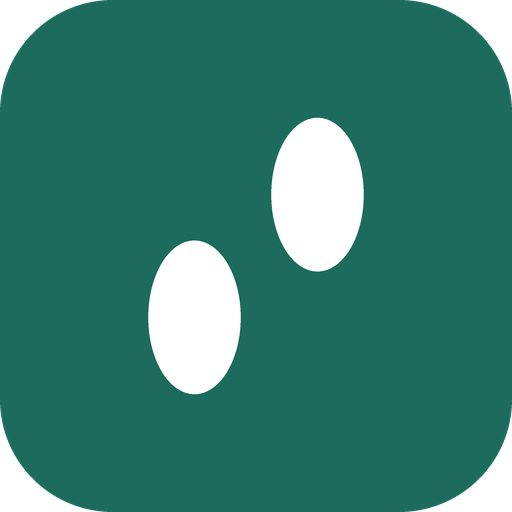
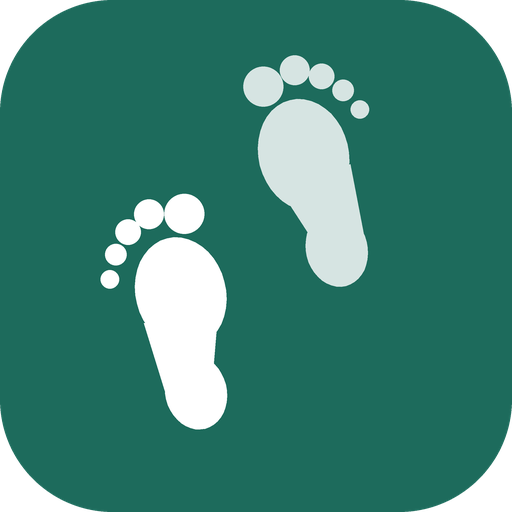
글씨 정리(굵기·크기·자간, 선 아이콘), 탭으로 상황 기록(컨디션·길·신발), 홈 주간 요약(점수 없이), 발자국 앱 아이콘(앱 0.6)

Changed region(s): [[0.4688, 0.0938, 0.7188, 0.5625], [0.1875, 0.375, 0.4688, 0.8438]]

diff --git a/app.js b/app.js
@@ -168,6 +168,7 @@ async function stopRec() {
 }
 
 function finish(data, demo = false, gps = []) {
+  shownDate = null;
   const position = $('pos').value;
   const act = $('act').value;
   if (act === 'slowrun') return finishSlow(data, demo);
@@ -199,6 +200,7 @@ function finish(data, demo = false, gps = []) {
   const rec = { date: new Date().toISOString(), activity: act, position, practice, ...res, distance: dist, ...d, distSource: d.speed ? mode : null, diag, diagHtml };
   if (!demo && consent?.share && ENDPOINT) rec.receipt = send(rec);
   hist.unshift(rec); store.set('history', hist.slice(0, 200));
+  shownDate = rec.date;
   const prev = hist.find(h => !h.practice && h !== rec && (h.activity ?? 'walk') === act);
   act === 'run' ? renderRun(rec, prev) : render(rec, prev);
   renderHistory();
@@ -206,6 +208,7 @@ function finish(data, demo = false, gps = []) {
 
 // ── 슬로우 러닝: 1분 단위로 잘라 조깅 구간은 러닝, 걷기 구간은 걷기로 분석 ──
 function finishSlow(data, demo) {
+  shownDate = null;
   const position = $('pos').value, t0s = data[0].t, segs = [];
   for (let k = 0; ; k++) {
     const a = t0s + k * INTERVAL_S * 1000, b = a + INTERVAL_S * 1000;
@@ -226,6 +229,7 @@ function finishSlow(data, demo) {
     diag: { src: Native ? 'app' : 'web', durS: (data[data.length - 1].t - t0s) / 1000, hz: data.length / Math.max(1, (data[data.length - 1].t - t0s) / 1000), gapS: 0, gpsGood: 0 } };
   if (!demo && consent?.share && ENDPOINT) rec.receipt = send(rec);
   hist.unshift(rec); store.set('history', hist.slice(0, 200));
+  shownDate = rec.date;
   renderSlow(rec, hist);
   renderHistory();
 }
@@ -253,7 +257,7 @@ function send(r) {
 }
 
 // ── 처음 시작할 때 동의 ──
-const APP_VERSION = 'v20';
+const APP_VERSION = 'v21';
 let consent = store.get('consent', null);
 function showConsent() {
   document.body.classList.add('needConsent');
@@ -362,13 +366,13 @@ function render(r, prev) {
 // ── 추천 카드: 효과를 뭉뚱그리지 않고 계산식 + 출처별 실제 결과 + 한계만 보여 줌 ──
 function recCard({ title, calc = [], facts = [], limit = '', grade = 'y', refs = [] }) {
   const [cls, label] = GRADE[grade];
-  return `<div class="rec"><div class="mhead"><b>💡 ${title}</b><span class="badge ${cls}">${label}</span></div>
+  return `<div class="rec"><div class="mhead"><b>${title}</b><span class="badge ${cls}">${label}</span></div>
     ${calc.length ? `<div class="calc">${calc.join('<br>')}</div>` : ''}
     <ul class="facts">${facts.map(f => `<li>${f}</li>`).join('')}</ul>
     ${limit ? `<div class="sub">한계: ${limit}</div>` : ''}
     <details><summary>출처 전체</summary><ul>${refs.map(r => `<li>${REF[r]}</li>`).join('')}</ul></details></div>`;
 }
-const recSection = (cards, title = '📚 근거로 본 추천') => cards.length ? `<details class="recs"><summary>${title} <span class="sub">(눌러서 보기)</span></summary><div class="sub" style="margin-top:8px">책·연구의 기준값과 이번 값, 계산식만 옮겼어요. 원인 판단과 내 몸에 맞는지는 전문가와 상의하세요.</div>${cards.join('')}</details>` : '';
+const recSection = (cards, title = '근거로 본 추천') => cards.length ? `<details class="recs"><summary>${title} <span class="sub">(눌러서 보기)</span></summary><div class="sub" style="margin-top:8px">책·연구의 기준값과 이번 값, 계산식만 옮겼어요. 원인 판단과 내 몸에 맞는지는 전문가와 상의하세요.</div>${cards.join('')}</details>` : '';
 
 function recsWalk(r, { sex, age }) {
   const c = Math.round(r.cadence), cards = [];
@@ -471,8 +475,38 @@ function renderSlow(r, hist) {
   showHtml(html);
 }
 
+
+// ── 그때 상황 남기기: 글자 입력 없이 탭으로 (기록에만 저장, 시트로 보내지 않음) ──
+const CTX = {
+  cond: ['컨디션', ['좋음', '보통', '피곤', '통증 있음']],
+  road: ['길', ['평지', '오르막', '내리막', '트레드밀']],
+  shoe: ['신발', ['운동화', '구두·샌들', '맨발·기타']],
+};
+let shownDate = null;   // 지금 결과 화면에 떠 있는 기록의 날짜 (이걸로 기록을 찾음)
+function ctxBox(date) {
+  const h = store.get('history', []).find(x => x.date === date);
+  if (!h) return '';
+  const c = h.ctx || {};
+  return `<div class="ctx" data-date="${date}"><div class="sub" style="margin-bottom:6px">그때 상황 남기기 <span style="opacity:.7">(선택 · 누르기만 하면 저장돼요)</span></div>
+    ${Object.entries(CTX).map(([k, [name, opts]]) => `<div class="ctxrow"><span class="ctxk">${name}</span>${opts.map(o => `<button class="chip" data-k="${k}" data-v="${o}" aria-pressed="${c[k] === o}">${o}</button>`).join('')}</div>`).join('')}
+    <div class="sub" style="margin-top:4px;font-size:.75rem">Neumann 16장: 오르막·내리막에 따라 착지 충격이 달라져서, 길 종류를 남겨 두면 기록을 비교할 때 도움이 돼요.</div></div>`;
+}
+document.addEventListener('click', e => {
+  const b = e.target.closest?.('.ctx .chip');
+  if (!b) return;
+  const box = b.closest('.ctx'), hist = store.get('history', []), h = hist.find(x => x.date === box.dataset.date);
+  if (!h) return;
+  h.ctx = h.ctx || {};
+  h.ctx[b.dataset.k] = h.ctx[b.dataset.k] === b.dataset.v ? undefined : b.dataset.v;   // 같은 걸 다시 누르면 지움
+  store.set('history', hist);
+  for (const x of box.querySelectorAll(`.chip[data-k="${b.dataset.k}"]`)) x.setAttribute('aria-pressed', h.ctx[b.dataset.k] === x.dataset.v);
+  renderHistory();
+});
+const ctxText = c => c ? Object.keys(CTX).map(k => c[k]).filter(Boolean).join(' · ') : '';
+
 function showHtml(html) {
   const el = $('result'); el.innerHTML = html;
+  if (shownDate) el.querySelector('h2')?.insertAdjacentHTML('afterend', ctxBox(shownDate));
   el.insertAdjacentHTML('beforeend', glossList(markTerms(el)));
   el.classList.remove('hidden'); el.scrollIntoView({ behavior: 'smooth' });
 }
@@ -555,7 +589,7 @@ function markTerms(root) {
 }
 function glossList(terms) {
   if (!terms.length) return '';
-  return `<details class="gloss"><summary>📖 용어 풀이 (${terms.length}개)</summary><dl>${terms.map(t => `<dt>${t}</dt><dd>${GLOSS[t]}</dd>`).join('')}</dl></details>`;
+  return `<details class="gloss"><summary>용어 풀이 (${terms.length}개)</summary><dl>${terms.map(t => `<dt>${t}</dt><dd>${GLOSS[t]}</dd>`).join('')}</dl></details>`;
 }
 document.addEventListener('click', e => {
   const t = e.target.closest?.('.term');
@@ -571,7 +605,7 @@ function renderHistory() {
   if (homeReady && document.body.dataset.tab === 'home') renderHome();   // 홈 코드가 다 읽힌 뒤에만
   if (!hist.length) return;
   $('histBody').innerHTML = `<div class="sub">줄을 누르면 그때 결과를 다시 볼 수 있어요.</div><table class="hist"><tr><td>날짜</td><td>활동</td><td>케이던스</td><td>걸음</td><td>속도</td></tr>` +
-    hist.slice(0, 20).map((h, i) => `<tr data-i="${i}" class="clickable"><td>${new Date(h.date).toLocaleString('ko-KR', { month: 'numeric', day: 'numeric', hour: '2-digit', minute: '2-digit' })}${h.practice ? ' (연습)' : ''}${h.receipt ? `<br><span class="sub">접수 ${h.receipt}</span>` : ''}</td>
+    hist.slice(0, 20).map((h, i) => `<tr data-i="${i}" class="clickable"><td>${new Date(h.date).toLocaleString('ko-KR', { month: 'numeric', day: 'numeric', hour: '2-digit', minute: '2-digit' })}${h.practice ? ' (연습)' : ''}${h.receipt ? `<br><span class="sub">접수 ${h.receipt}</span>` : ''}${h.ctx && ctxText(h.ctx) ? `<br><span class="sub">${ctxText(h.ctx)}</span>` : ''}</td>
       <td>${ACT[h.activity ?? 'walk']}${h.view ? `(${VIEW[h.view]})` : ''}</td><td>${(h.cadence ?? h.r?.cadence)?.toFixed(0) ?? '-'}</td><td>${h.steps ?? '-'}</td><td>${h.speed ? h.speed.toFixed(2) + ' m/s' : '-'}</td></tr>`).join('') + '</table>';
 }
 renderHistory();
@@ -590,6 +624,35 @@ const shortDate = d => new Date(d).toLocaleDateString('ko-KR', { month: 'numeric
 function tile(label, value, unit, sub, i) {
   if (value == null) return `<div class="tile empty"><div class="k">${label}</div><div class="v">기록 없음</div><div class="d">${sub}</div></div>`;
   return `<button class="tile" data-i="${i}"><div class="k">${label}</div><div class="v">${value}<small> ${unit}</small></div><div class="d">${sub}</div></button>`;
+}
+
+// 주간 요약: 이번 주(월요일부터) vs 지난주, 점수 없이 숫자와 차이만
+function weekSummary(hist) {
+  const mon = new Date(); mon.setHours(0, 0, 0, 0); mon.setDate(mon.getDate() - ((mon.getDay() + 6) % 7));
+  const prevMon = new Date(mon); prevMon.setDate(mon.getDate() - 7);
+  const inW = (h, a, b) => { const t = new Date(h.date); return t >= a && t < b; };
+  const far = new Date(8.64e15);
+  const pick = (a, b) => hist.filter(h => !h.practice && inW(h, a, b));
+  const stat = list => {
+    const avg = xs => xs.length ? xs.reduce((s, x) => s + x, 0) / xs.length : null;
+    const walk = list.filter(h => (h.activity ?? 'walk') === 'walk');
+    return { n: list.length, walkCad: avg(walk.map(h => h.cadence)), speed: avg(walk.filter(h => h.speed).map(h => h.speed)),
+      runCad: avg(list.filter(h => h.activity === 'run').map(h => h.cadence)),
+      jog: list.filter(h => h.activity === 'slowrun').reduce((s, h) => s + h.activeS / 60, 0), video: list.filter(h => h.activity === 'video').length };
+  };
+  return { cur: stat(pick(mon, far)), prev: stat(pick(prevMon, mon)) };
+}
+function renderWeek() {
+  const { cur, prev } = weekSummary(store.get('history', []));
+  const row = (label, a, b, unit, dec = 0) => {
+    const v = a == null ? '-' : `${a.toFixed(dec)}<small> ${unit}</small>`;
+    const d = a != null && b != null ? `${a - b >= 0 ? '+' : ''}${(a - b).toFixed(dec)}` : '-';
+    return `<tr><td>${label}</td><td class="num">${v}</td><td class="num sub">${d}</td></tr>`;
+  };
+  $('week').innerHTML = `<table class="wk"><tr class="sub"><td></td><td class="num">이번 주</td><td class="num">지난주 대비</td></tr>
+    ${row('측정 횟수', cur.n, prev.n, '회')}${row('걷기 케이던스 평균', cur.walkCad, prev.walkCad, '걸음/분')}${row('걷는 속도 평균', cur.speed, prev.speed, 'm/s', 2)}
+    ${row('러닝 케이던스 평균', cur.runCad, prev.runCad, '걸음/분')}${row('슬로우 조깅', cur.jog, prev.jog, '분')}${row('영상 분석', cur.video, prev.video, '회')}</table>
+    <div class="sub" style="margin-top:6px">월요일부터 지금까지의 기록이에요(연습 측정 제외). 점수로 바꾸지 않고 잰 숫자만 모았어요.</div>`;
 }
 function renderHome() {
   const hist = store.get('history', []);
@@ -616,6 +679,7 @@ function renderHome() {
       <text x="54" y="70" text-anchor="middle" font-size="11" fill="var(--sub)">/ 90분</text></svg>
     <div><div style="font-weight:700">${Math.round(frac * 100)}%</div>
       <div class="sub">월요일부터 이번 주에 슬로우 러닝으로 조깅한 시간이에요. 90분은 Ikenaga 2017 무작위 연구의 주간 조깅량이에요(목표 처방이 아니에요).</div></div>`;
+  renderWeek();
   renderTrend();
   markTerms($('home'));
 }
@@ -669,8 +733,9 @@ function showRecord(i) {
   const hist = store.get('history', []), h = hist[i];
   if (!h) return;
   const when = new Date(h.date).toLocaleString('ko-KR', { month: 'numeric', day: 'numeric', hour: '2-digit', minute: '2-digit' });
-  const banner = `<div class="sub" style="margin-bottom:6px">📅 지난 기록 다시 보기 · ${when}</div>`;
+  const banner = `<div class="sub" style="margin-bottom:6px">지난 기록 다시 보기 · ${when}</div>`;
   const act = h.activity ?? 'walk';
+  shownDate = h.date;
   if (act === 'video') { setTab('video'); renderVideo(h.r); $('vresult').insertAdjacentHTML('afterbegin', banner); return; }
   setTab('measure');
   const prev = hist.slice(i + 1).find(x => !x.practice && (x.activity ?? 'walk') === act);
@@ -694,6 +759,7 @@ for (const id of ['vcam', 'vfile']) $(id).addEventListener('change', e => { cons
 
 async function runVideo(file) {
   const view = $('vview').value;
+  shownDate = null;
   $('vresult').classList.add('hidden'); $('vcanvas').classList.add('hidden'); $('vprog').classList.remove('hidden');
   const prog = (r, msg) => { $('vbar').style.width = `${Math.round(r * 100)}%`; $('vmsg').textContent = msg; };
   prog(0, '자세 인식 프로그램 준비 중… (처음 한 번은 조금 걸려요)');
@@ -713,8 +779,9 @@ async function runVideo(file) {
     await drawSnapshot($('vcanvas'), video, frames[Math.floor(frames.length / 2)]);
     URL.revokeObjectURL(video.src);
     const hist = store.get('history', []);
-    hist.unshift({ date: new Date().toISOString(), activity: 'video', view, r });   // 영상은 저장 안 하고 계산된 숫자만
-    store.set('history', hist.slice(0, 200));
+    const vrec = { date: new Date().toISOString(), activity: 'video', view, r };   // 영상은 저장 안 하고 계산된 숫자만
+    hist.unshift(vrec); store.set('history', hist.slice(0, 200));
+    shownDate = vrec.date;
     renderVideo(r, dur);
     renderHistory();
   } catch (err) {
@@ -727,6 +794,7 @@ async function runVideo(file) {
 
 function showV(html) {
   const el = $('vresult'); el.innerHTML = html;
+  if (shownDate) el.querySelector('h2')?.insertAdjacentHTML('afterend', ctxBox(shownDate));
   el.insertAdjacentHTML('beforeend', glossList(markTerms(el)));
   el.classList.remove('hidden'); el.scrollIntoView({ behavior: 'smooth' });
 }
@@ -823,7 +891,7 @@ function renderVideo(r, dur) {
       body: `<div class="sub">두 발목 사이 가로 거리 ÷ 양쪽 엉덩이 점 사이 거리 (중앙값). 참고: Neumann 15장 성인 걸음 폭 8~10cm</div>`,
       why: ['영상에는 cm 기준이 없어서 골반 너비에 대한 비율로만 보여 줘요'], refs: ['neumann15'] });
   }
-  html += recSection(videoRecs(r), '📚 레퍼런스로 본 걷는 법');
+  html += recSection(videoRecs(r), '레퍼런스로 본 걷는 법');
   html += `<div class="sub" style="margin-top:12px">이 결과는 의료 진단이 아니에요. 걸음이 걱정되면 전문가와 상담하세요. 영상은 저장되지 않았어요(계산된 숫자만 지난 기록에 남아요).</div>`;
   showV(html);
 }

diff --git a/index.html b/index.html
@@ -10,41 +10,43 @@
 <link rel="stylesheet" href="https://cdn.jsdelivr.net/gh/orioncactus/pretendard@v1.3.9/dist/web/variable/pretendardvariable-dynamic-subset.min.css">
 <style>
   /* 색 규칙(디자인 토큰): 바탕·카드·글자·선·주요색 + 정확도 등급 4색 + 그래프 선 */
-  :root { --bg:#f6f7f5; --card:#fff; --ink:#1c2321; --sub:#5c6764; --line:#dfe4e1; --accent:#1d6b5c; --accent-weak:#e3f1ed;
+  :root { --bg:#f4f6f5; --card:#fff; --ink:#121816; --sub:#69736f; --line:#e6eae8; --accent:#1d6b5c; --accent-weak:#e3f1ed;
           --series:#008a6e; --band:rgba(0,138,110,.10); --radius:14px; --shadow:0 1px 2px rgba(0,0,0,.04), 0 2px 8px rgba(0,0,0,.04);
           --g:#1e8e3e; --y:#b08000; --o:#c4551b; --n:#7a8380; }
   @media (prefers-color-scheme: dark) {
-    :root { --bg:#141917; --card:#1d2422; --ink:#e7ecea; --sub:#a3aeab; --line:#2e3835; --accent:#5fc2ab; --accent-weak:#1f3a33;
+    :root { --bg:#111614; --card:#1a201e; --ink:#eef2f0; --sub:#9aa5a1; --line:#2a3330; --accent:#5fc2ab; --accent-weak:#1f3a33;
             --series:#16a383; --band:rgba(22,163,131,.14); --shadow:none;
             --g:#5cc77a; --y:#e0b84a; --o:#f08a55; --n:#9aa4a1; }
   }
   * { box-sizing:border-box; }
-  body { margin:0; font:16px/1.55 "Pretendard Variable",Pretendard,system-ui,-apple-system,"Apple SD Gothic Neo","Malgun Gothic",sans-serif;
+  body { margin:0; font:400 15px/1.6 "Pretendard Variable",Pretendard,system-ui,-apple-system,"Apple SD Gothic Neo","Malgun Gothic",sans-serif;
+         letter-spacing:-0.01em; -webkit-font-smoothing:antialiased; font-variant-numeric:tabular-nums;
          background:var(--bg); color:var(--ink); }
   main { max-width:560px; margin:0 auto; padding:16px 16px 96px; }
-  h1 { font-size:1.4rem; margin:8px 0 2px; }
-  h2 { font-size:1.05rem; margin:0 0 10px; }
-  .sub { color:var(--sub); font-size:.9rem; }
+  h1 { font-size:1.375rem; font-weight:700; letter-spacing:-0.025em; margin:8px 0 2px; }
+  h2 { font-size:1rem; font-weight:600; letter-spacing:-0.015em; margin:0 0 10px; }
+  .sub { color:var(--sub); font-size:.875rem; }
+  b, strong { font-weight:600; }
   .card { background:var(--card); border:1px solid var(--line); border-radius:var(--radius); padding:16px; margin:14px 0; box-shadow:var(--shadow); }
-  label { display:block; margin:10px 0 4px; font-weight:600; font-size:.95rem; }
+  label { display:block; margin:12px 0 6px; font-weight:500; font-size:.875rem; color:var(--sub); }
   select, input { width:100%; font:inherit; padding:10px 12px; border-radius:10px; border:1px solid var(--line);
                   background:var(--bg); color:var(--ink); }
   .row { display:flex; gap:10px; } .row > * { flex:1; }
-  button { font:inherit; font-weight:700; border:0; border-radius:12px; padding:14px; width:100%;
+  button { font:inherit; font-weight:600; border:0; border-radius:12px; padding:14px; width:100%;
            background:var(--accent); color:#fff; cursor:pointer; margin-top:14px; }
   button.ghost { background:transparent; color:var(--accent); border:1px solid var(--accent); }
-  .big { font-size:2.6rem; font-weight:800; letter-spacing:-.02em; }
+  .big { font-size:2.6rem; font-weight:700; letter-spacing:-.03em; }
   .metric { border-top:1px solid var(--line); padding:12px 0; }
   .metric:first-of-type { border-top:0; }
-  .mhead { display:flex; justify-content:space-between; align-items:baseline; gap:8px; }
-  .mval { font-size:1.6rem; font-weight:800; }
-  .badge { font-size:.78rem; font-weight:700; padding:2px 8px; border-radius:999px; white-space:nowrap; border:1px solid currentColor; }
+  .mhead { display:flex; justify-content:space-between; align-items:center; gap:8px; } .mhead b { font-weight:600; font-size:.9375rem; }
+  .mval { font-size:1.75rem; font-weight:700; letter-spacing:-.03em; margin-top:2px; } .mval .sub { font-size:.8125rem; font-weight:400; letter-spacing:0; }
+  .badge { font-size:.75rem; font-weight:600; padding:3px 9px; border-radius:999px; white-space:nowrap; background:color-mix(in srgb, currentColor 11%, transparent); }
   .b-g { color:var(--g); } .b-y { color:var(--y); } .b-o { color:var(--o); } .b-n { color:var(--n); }
   details { margin-top:6px; font-size:.88rem; color:var(--sub); }
   summary { cursor:pointer; color:var(--accent); font-weight:600; }
   details li { margin:4px 0; }
-  .warn { background:color-mix(in srgb, var(--o) 12%, transparent); border-left:4px solid var(--o);
-          padding:10px 12px; border-radius:8px; margin:8px 0; font-size:.92rem; }
+  .warn { background:color-mix(in srgb, var(--o) 9%, transparent); border-left:3px solid var(--o);
+          padding:10px 12px; border-radius:6px; margin:8px 0; font-size:.875rem; }
   .bar { position:relative; height:10px; border-radius:6px; margin:10px 0 4px;
          background:linear-gradient(90deg, var(--line) 0 40%, color-mix(in srgb,var(--g) 45%,transparent) 40% 75%, color-mix(in srgb,var(--y) 45%,transparent) 75%); }
   .bar i { position:absolute; top:-4px; width:4px; height:18px; background:var(--ink); border-radius:2px; }
@@ -57,16 +59,16 @@
   body[data-tab="records"] main > [data-tab]:not([data-tab="records"]) { display:none; }
   #tabbar { position:fixed; left:0; right:0; bottom:0; z-index:20; display:flex; background:var(--card); border-top:1px solid var(--line);
             padding:6px max(8px, env(safe-area-inset-left)) calc(6px + env(safe-area-inset-bottom)); }
-  #tabbar button { flex:1; margin:0; padding:6px 0; background:none; color:var(--sub); font-size:.78rem; font-weight:600; border-radius:10px; }
-  #tabbar button b { display:block; font-size:1.25rem; line-height:1.2; }
-  #tabbar button[aria-selected="true"] { color:var(--accent); background:var(--accent-weak); }
+  #tabbar button { flex:1; margin:0; padding:7px 0 5px; background:none; color:var(--sub); font-size:.6875rem; font-weight:500; border-radius:10px; }
+  #tabbar svg { display:block; width:22px; height:22px; margin:0 auto 2px; fill:none; stroke:currentColor; stroke-width:1.75; stroke-linecap:round; stroke-linejoin:round; }
+  #tabbar button[aria-selected="true"] { color:var(--accent); font-weight:600; }
   body.needConsent #tabbar, body.recording #tabbar { display:none; }
   /* 홈: 요약 카드·링·변화 그래프 */
   .tiles { display:grid; grid-template-columns:1fr 1fr; gap:10px; }
   .tile { background:var(--card); border:1px solid var(--line); border-radius:var(--radius); padding:12px; box-shadow:var(--shadow); text-align:left; color:var(--ink); margin:0; font-weight:400; cursor:pointer; }
-  .tile .k { font-size:.8rem; color:var(--sub); font-weight:600; } .tile .v { font-size:1.9rem; font-weight:800; letter-spacing:-.02em; line-height:1.15; margin-top:4px; }
-  .tile .v small { font-size:.8rem; font-weight:600; color:var(--sub); } .tile .d { font-size:.78rem; color:var(--sub); margin-top:2px; }
-  .tile.empty { cursor:default; } .tile.empty .v { color:var(--sub); font-size:1.2rem; }
+  .tile .k { font-size:.75rem; color:var(--sub); font-weight:500; } .tile .v { font-size:1.75rem; font-weight:700; letter-spacing:-.03em; line-height:1.2; margin-top:6px; }
+  .tile .v small { font-size:.75rem; font-weight:400; color:var(--sub); letter-spacing:0; } .tile .d { font-size:.75rem; color:var(--sub); margin-top:4px; line-height:1.45; }
+  .tile.empty { cursor:default; } .tile.empty .v { color:var(--sub); font-size:.9375rem; font-weight:500; letter-spacing:-.01em; }
   .ringwrap { display:flex; gap:14px; align-items:center; } .ringwrap svg { flex:none; width:108px; height:108px; }
   #tchart { position:relative; } #ttip { position:absolute; pointer-events:none; background:var(--ink); color:var(--card); font-size:.8rem; padding:4px 8px; border-radius:8px; white-space:nowrap; transform:translate(-50%,-110%); }
   #consent { display:none; }
@@ -78,19 +80,25 @@
   .terms p { margin:4px 0; }
   button:disabled { opacity:.4; cursor:not-allowed; }
   a { color:var(--accent); }
-  .term { border-bottom:1.5px dotted currentColor; cursor:help; }
+  .term { text-decoration:underline dotted color-mix(in srgb, currentColor 45%, transparent); text-underline-offset:3px; cursor:help; }
   #tip { position:fixed; left:12px; right:12px; bottom:12px; z-index:30; background:var(--ink); color:var(--bg);
          padding:12px 14px; border-radius:12px; font-size:.95rem; box-shadow:0 6px 24px rgba(0,0,0,.25); max-width:536px; margin:0 auto; }
   #tip .sub { color:inherit; opacity:.7; }
-  .gloss { margin-top:14px; } .gloss dt { font-weight:700; margin-top:8px; color:var(--ink); } .gloss dd { margin:2px 0 0; }
-  .btnlike { display:block; text-align:center; font-weight:700; border-radius:12px; padding:14px; margin-top:14px; background:var(--accent); color:#fff; cursor:pointer; }
+  .gloss { margin-top:14px; } .gloss dt { font-weight:600; margin-top:8px; color:var(--ink); } .gloss dd { margin:2px 0 0; }
+  .btnlike { display:block; text-align:center; font-weight:600; border-radius:12px; padding:14px; margin-top:14px; background:var(--accent); color:#fff; cursor:pointer; }
   .ghostlike { background:transparent; color:var(--accent); border:1px solid var(--accent); }
   .bar2 { height:10px; border-radius:6px; background:var(--line); overflow:hidden; margin-top:12px; } .bar2 i { display:block; height:100%; width:0; background:var(--accent); }
   svg.chart { width:100%; height:auto; margin-top:8px; }
-  details.recs > summary { list-style:none; font-weight:700; padding:13px 14px; margin-top:16px; border:1px solid var(--accent); border-radius:12px; color:var(--accent); text-align:center; }
+  details.recs > summary { list-style:none; font-weight:600; padding:13px 14px; margin-top:16px; border:1px solid var(--accent); border-radius:12px; color:var(--accent); text-align:center; }
   details.recs > summary::-webkit-details-marker { display:none; }
   details.recs[open] > summary { background:var(--accent); color:#fff; } details.recs[open] > summary .sub { color:#fff; }
   tr.clickable { cursor:pointer; } tr.clickable:hover td { background:var(--bg); }
+  .ctx { background:var(--bg); border-radius:12px; padding:10px 12px; margin:6px 0 12px; }
+  .ctxrow { display:flex; flex-wrap:wrap; align-items:center; gap:6px; margin:6px 0; } .ctxk { font-size:.75rem; color:var(--sub); width:44px; flex:none; }
+  .chip { width:auto; margin:0; padding:6px 11px; border-radius:999px; font-size:.8125rem; font-weight:500; background:var(--card); color:var(--ink); border:1px solid var(--line); }
+  .chip[aria-pressed="true"] { background:var(--accent); color:#fff; border-color:var(--accent); }
+  table.wk { width:100%; border-collapse:collapse; font-size:.875rem; } table.wk td { padding:7px 2px; border-top:1px solid var(--line); }
+  table.wk tr:first-child td { border-top:0; font-size:.75rem; } table.wk .num { text-align:right; } table.wk small { color:var(--sub); font-size:.75rem; }
   .rec { border:1px solid var(--line); border-radius:12px; padding:12px; margin:10px 0; background:var(--bg); }
   .calc { font-variant-numeric:tabular-nums; background:var(--card); border-radius:8px; padding:8px 10px; margin:8px 0; font-size:.95rem; }
   ul.facts { margin:6px 0; padding-left:20px; font-size:.9rem; } ul.facts li { margin:4px 0; }
@@ -147,6 +155,10 @@
   <section id="home" data-tab="home">
     <div class="tiles" id="tiles"></div>
     <div class="card">
+      <h2>이번 주 요약</h2>
+      <div id="week"></div>
+    </div>
+    <div class="card">
       <h2>이번 주 슬로우 조깅</h2>
       <div class="ringwrap" id="ring"></div>
     </div>
@@ -197,7 +209,7 @@
       <label for="dist">걸을 거리 (m, 20m 이상 권장)</label>
       <input id="dist" type="number" inputmode="decimal" min="0" step="0.5" placeholder="예: 30">
     </div>
-    <div class="sub" id="gpsNote">⚠ 휴대폰 GPS는 위치 오차가 보통 몇 m라서 <b>짧은 거리는 오차가 크게 생길 수 있어요.</b> 그래서 1분·50m보다 짧으면 속도를 계산하지 않고, 길게 걸어도 "참고" 등급이에요. 실내에서는 GPS가 잘 안 잡혀요.<br>
+    <div class="sub" id="gpsNote">휴대폰 GPS는 위치 오차가 보통 몇 m라서 <b>짧은 거리는 오차가 크게 생길 수 있어요.</b> 그래서 1분·50m보다 짧으면 속도를 계산하지 않고, 길게 걸어도 "참고" 등급이에요. 실내에서는 GPS가 잘 안 잡혀요.<br>
       위치 권한을 물어봐요. 위치는 이 휴대폰 안에서 거리 계산에만 쓰고 저장하거나 보내지 않아요.</div>
     </div>
     <ol class="guide sub">
@@ -219,8 +231,8 @@
     </select>
     <ol class="guide sub" id="vguide"></ol>
     <div class="row">
-      <label class="btnlike" for="vcam">📷 촬영하기</label>
-      <label class="btnlike ghostlike" for="vfile">🎞 갤러리에서</label>
+      <label class="btnlike" for="vcam">촬영하기</label>
+      <label class="btnlike ghostlike" for="vfile">갤러리에서 고르기</label>
     </div>
     <input id="vcam" type="file" accept="video/*" capture="environment" class="hidden">
     <input id="vfile" type="file" accept="video/*" class="hidden">
@@ -255,10 +267,10 @@
   </section>
 </main>
 <nav id="tabbar" role="tablist" aria-label="화면 이동">
-  <button role="tab" data-go="home"><b>🏠</b>홈</button>
-  <button role="tab" data-go="measure"><b>👟</b>측정</button>
-  <button role="tab" data-go="video"><b>🎥</b>영상</button>
-  <button role="tab" data-go="records"><b>📋</b>기록</button>
+  <button role="tab" data-go="home"><svg viewBox="0 0 24 24" aria-hidden="true"><path d="M3 10.5 12 3l9 7.5"/><path d="M5 9.5V20h14V9.5"/><path d="M10 20v-5h4v5"/></svg>홈</button>
+  <button role="tab" data-go="measure"><svg viewBox="0 0 24 24" aria-hidden="true"><path d="M3 12h4l2.5-6 4 12 2.5-6H21"/></svg>측정</button>
+  <button role="tab" data-go="video"><svg viewBox="0 0 24 24" aria-hidden="true"><rect x="3" y="6" width="13" height="12" rx="2"/><path d="m16 10 5-3v10l-5-3"/></svg>영상</button>
+  <button role="tab" data-go="records"><svg viewBox="0 0 24 24" aria-hidden="true"><path d="M8 6h12M8 12h12M8 18h12"/><circle cx="4" cy="6" r=".8"/><circle cx="4" cy="12" r=".8"/><circle cx="4" cy="18" r=".8"/></svg>기록</button>
 </nav>
 <div id="tip" class="hidden" role="status"></div>
 <script type="module" src="app.js"></script>

diff --git a/sw.js b/sw.js
@@ -1,5 +1,5 @@
 // 오프라인에서도 열리도록 앱 파일 저장 (파일을 고치면 VERSION을 올리기)
-const VERSION = 'v20';
+const VERSION = 'v21';
 const FILES = ['./', 'index.html', 'app.js', 'gait.js', 'video.js', 'manifest.webmanifest', 'icon.svg', 'icon-192.png', 'icon-512.png', 'privacy.html'];
 self.addEventListener('install', e => e.waitUntil(caches.open(VERSION).then(c => c.addAll(FILES))));
 self.addEventListener('activate', e => e.waitUntil(caches.keys().then(ks => Promise.all(ks.filter(k => k !== VERSION).map(k => caches.delete(k))))));
